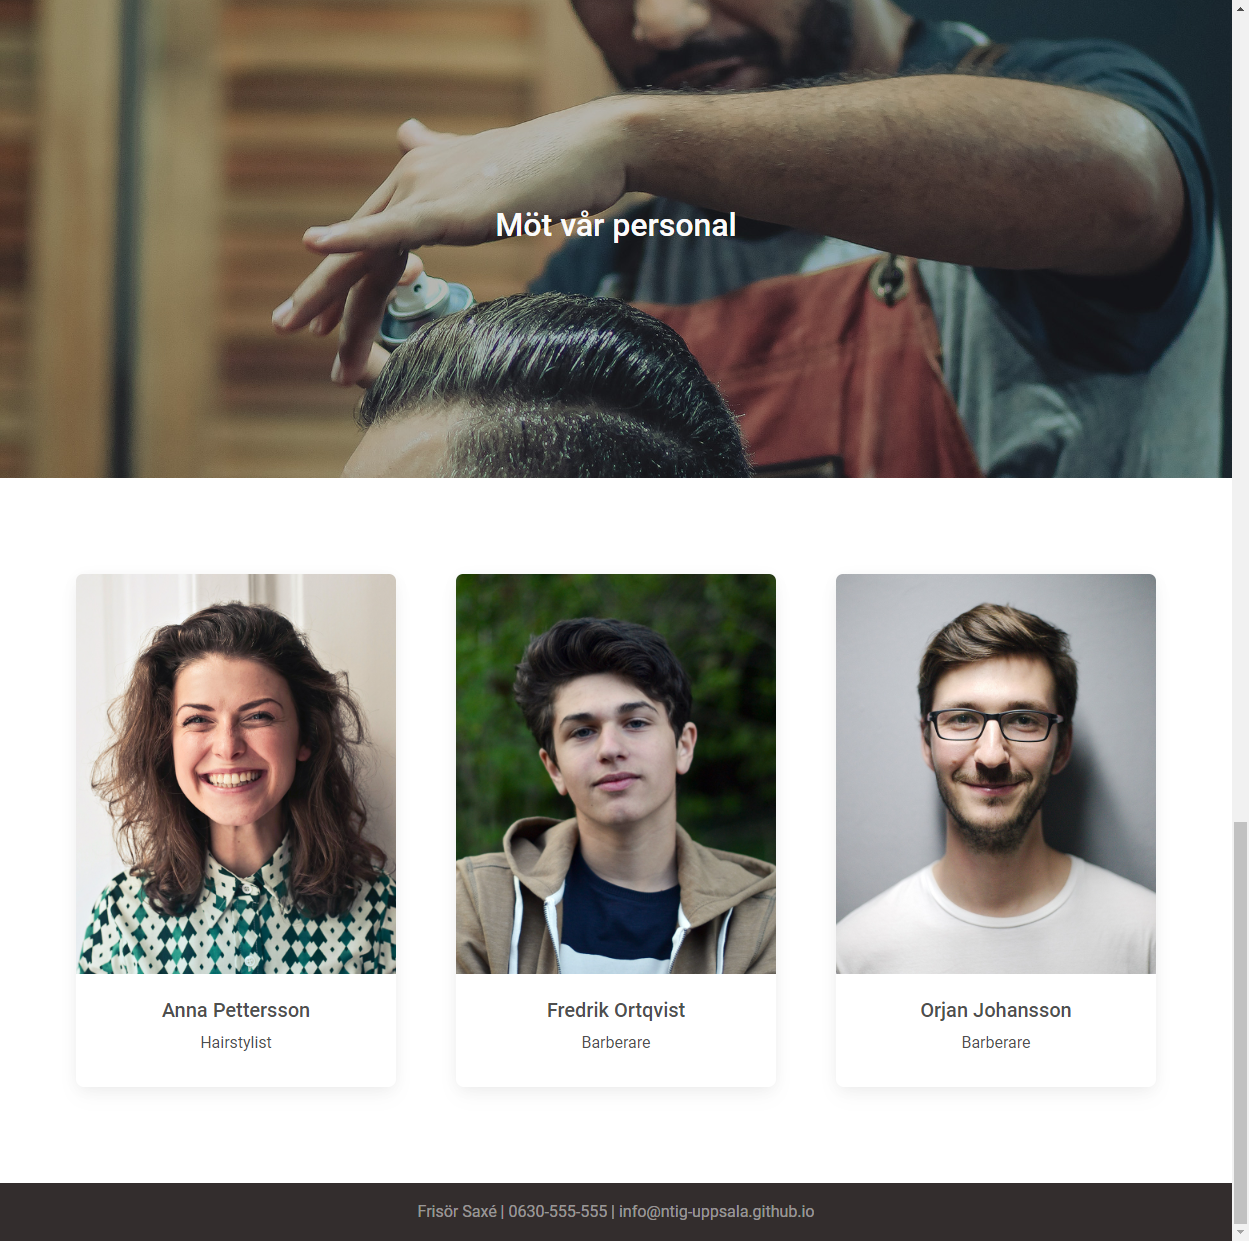
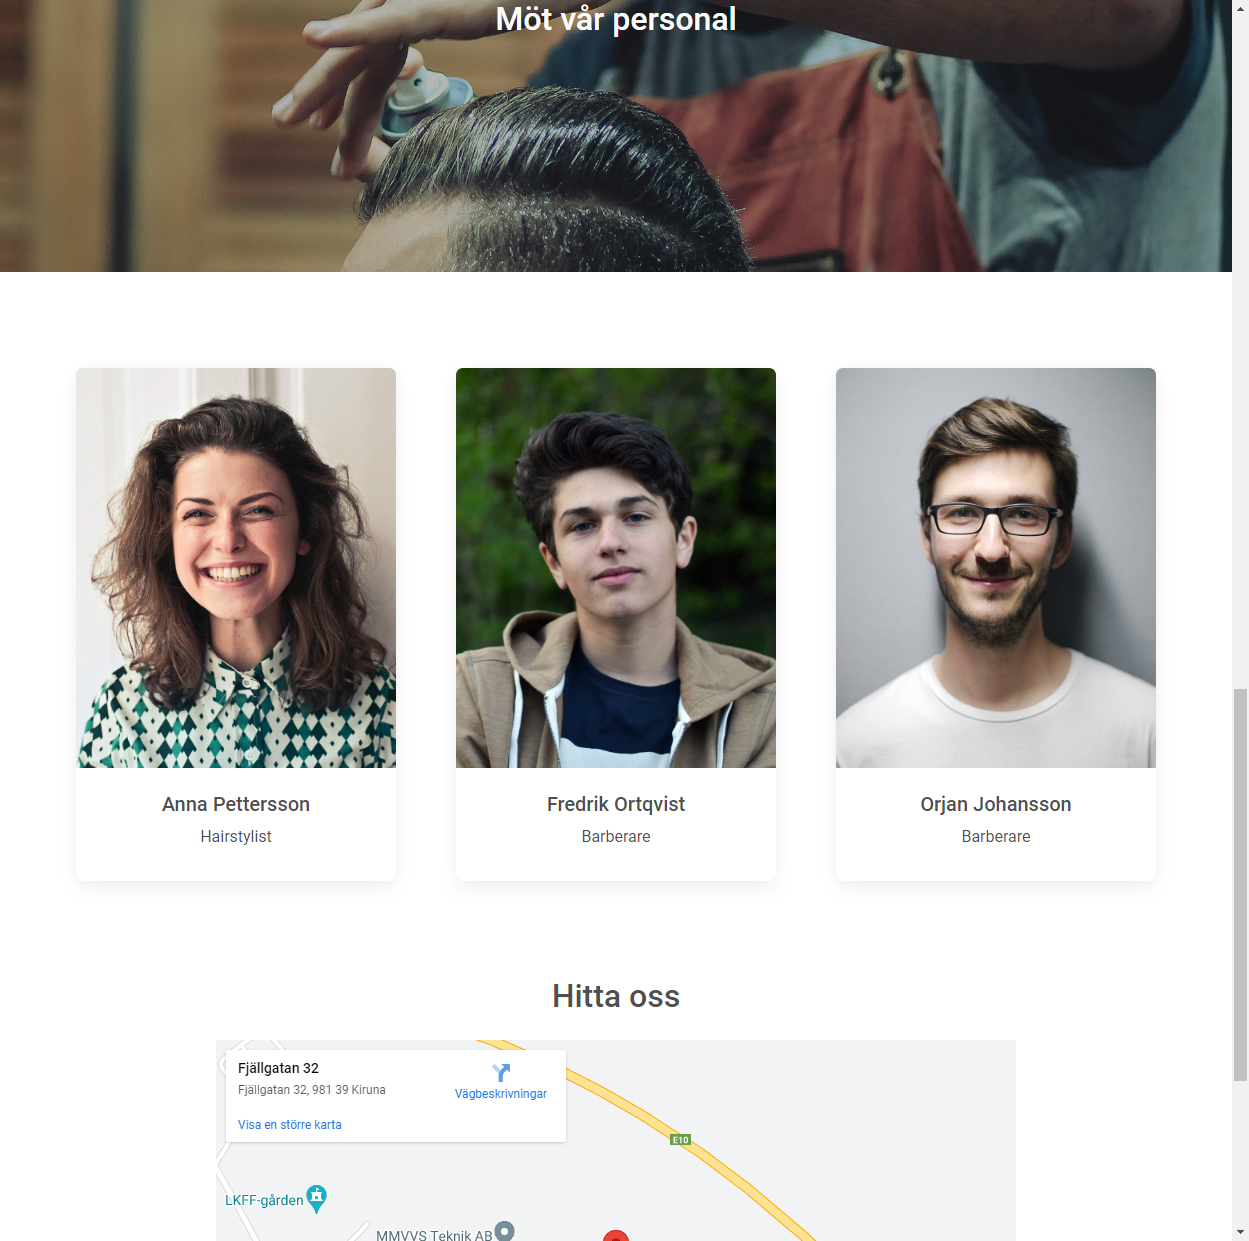
tester

diff --git a/index.html b/index.html
@@ -68,6 +68,9 @@
                     <li class="nav-item">
                         <a class="nav-link active" aria-current="page" href="#personal">Personal</a>
                     </li>
+                    <li class="nav-item">
+                        <a class="nav-link active" aria-current="page" href="#map">Hitta oss</a>
+                    </li>
 
                 </ul>
 

diff --git a/Testning/test.py b/Testning/test.py
@@ -97,6 +97,11 @@ class TestHemsida(TestCase):
         self.browser.find_element(By.LINK_TEXT, "Personal").click()
         time.sleep(2)
         self.browser.save_screenshot("ss_personal.png")
+
+        self.browser.get(path.join(getcwd(), 'index.html'))
+        self.browser.find_element(By.LINK_TEXT, "Hitta oss").click()
+        time.sleep(2)
+        self.browser.save_screenshot("ss_karta.png")
         
     def testmobile_ss(self):
 
